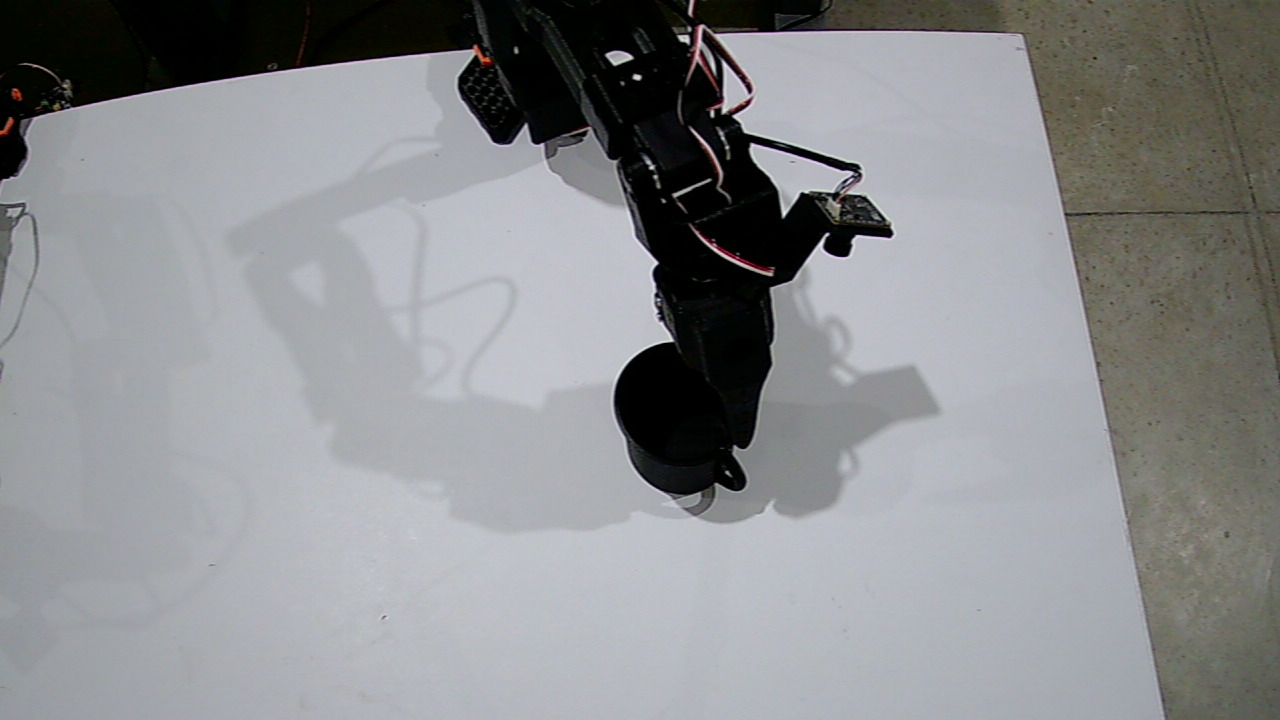
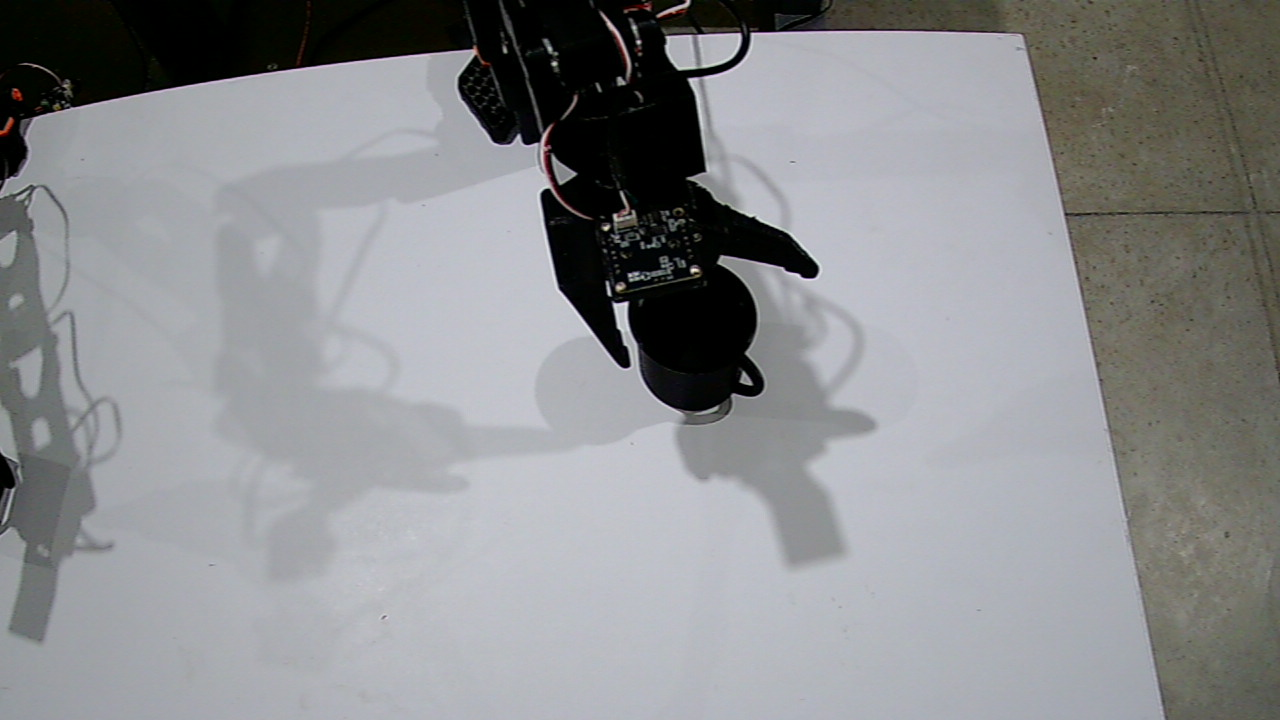
Update tools for arm-002__gpt-6-astra__exp-grasp-mug-multiagent
{"agent_id": "arm-002__gpt-6-astra__exp-grasp-mug-multiagent", "designation": "arm-002", "identity_version": 2, "model": "gpt-6-astra", "provider": "codex", "task_definition": {"description": "Start episode, pickup the black mug, bring black mug to home position, confirm successful grasp, stop episode, return object to new position, return to home position, repeat.  If the target object is visible, successful grasp is possible. This is an axiom of this environment. ", "id": "exp-grasp-mug-multiagent", "success_criteria": ["successful episode coverage across the entire workspace", "2:1 ratio of successful episodes to unsuccessful episodes", "achieve at least 6 successful episodes an hour"], "version": 6}, "task_id": "exp-grasp-mug-multiagent", "task_sha256": "da84841a86e2bacfa19d8d6ec61d7a933f74c59569b6e1ed32154cb945f96406", "task_version": 6, "tools_sha256": "10832eb6ebb3bbc34254c88acc3b6cf86ae52142e8ac6e5e24cc69854ef89d92"}

diff --git a/agents/arm-002__gpt-6-astra__exp-grasp-mug-multiagent/mug_control.py b/agents/arm-002__gpt-6-astra__exp-grasp-mug-multiagent/mug_control.py
@@ -19,7 +19,9 @@ def step(target,secs=5):
  with connected_bus(serial_port()) as b:
   target=clamp_target(target,b.calibration);preflight(b,[target]);enable_at_current_position(b,list(target))
  move_checked(target,secs);snap()
-def ik(xyz,pitch=90,roll=63):
+def ik(xyz,pitch=90,roll=None):
+ if roll is None:
+  with connected_bus(serial_port()) as b:roll=b.read("Present_Position","wrist_roll")
  def f(q):
   j=dict(zip(JOINTS[:4],q));j['wrist_roll']=roll
   return np.r_[((arm_transform(j)@OFFSET)[:3]-xyz)*100,(sum(q[1:])-pitch)*.1]
